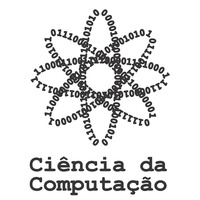
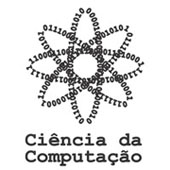
Mostrar Assuntos lado a lado, e modificacao do thumb para 170x170.

diff --git a/app/uploaders/image_uploader.rb b/app/uploaders/image_uploader.rb
@@ -16,7 +16,7 @@ class ImageUploader < CarrierWave::Uploader::Base
     "uploads/#{model.class.to_s.underscore}/#{mounted_as}/#{model.id}"
   end
 version :thumb do
-  process :resize_to_fill => [200, 200]
+  process :resize_to_fill => [170, 170]
    end
   # Provide a default URL as a default if there hasn't been a file uploaded:
   # def default_url
